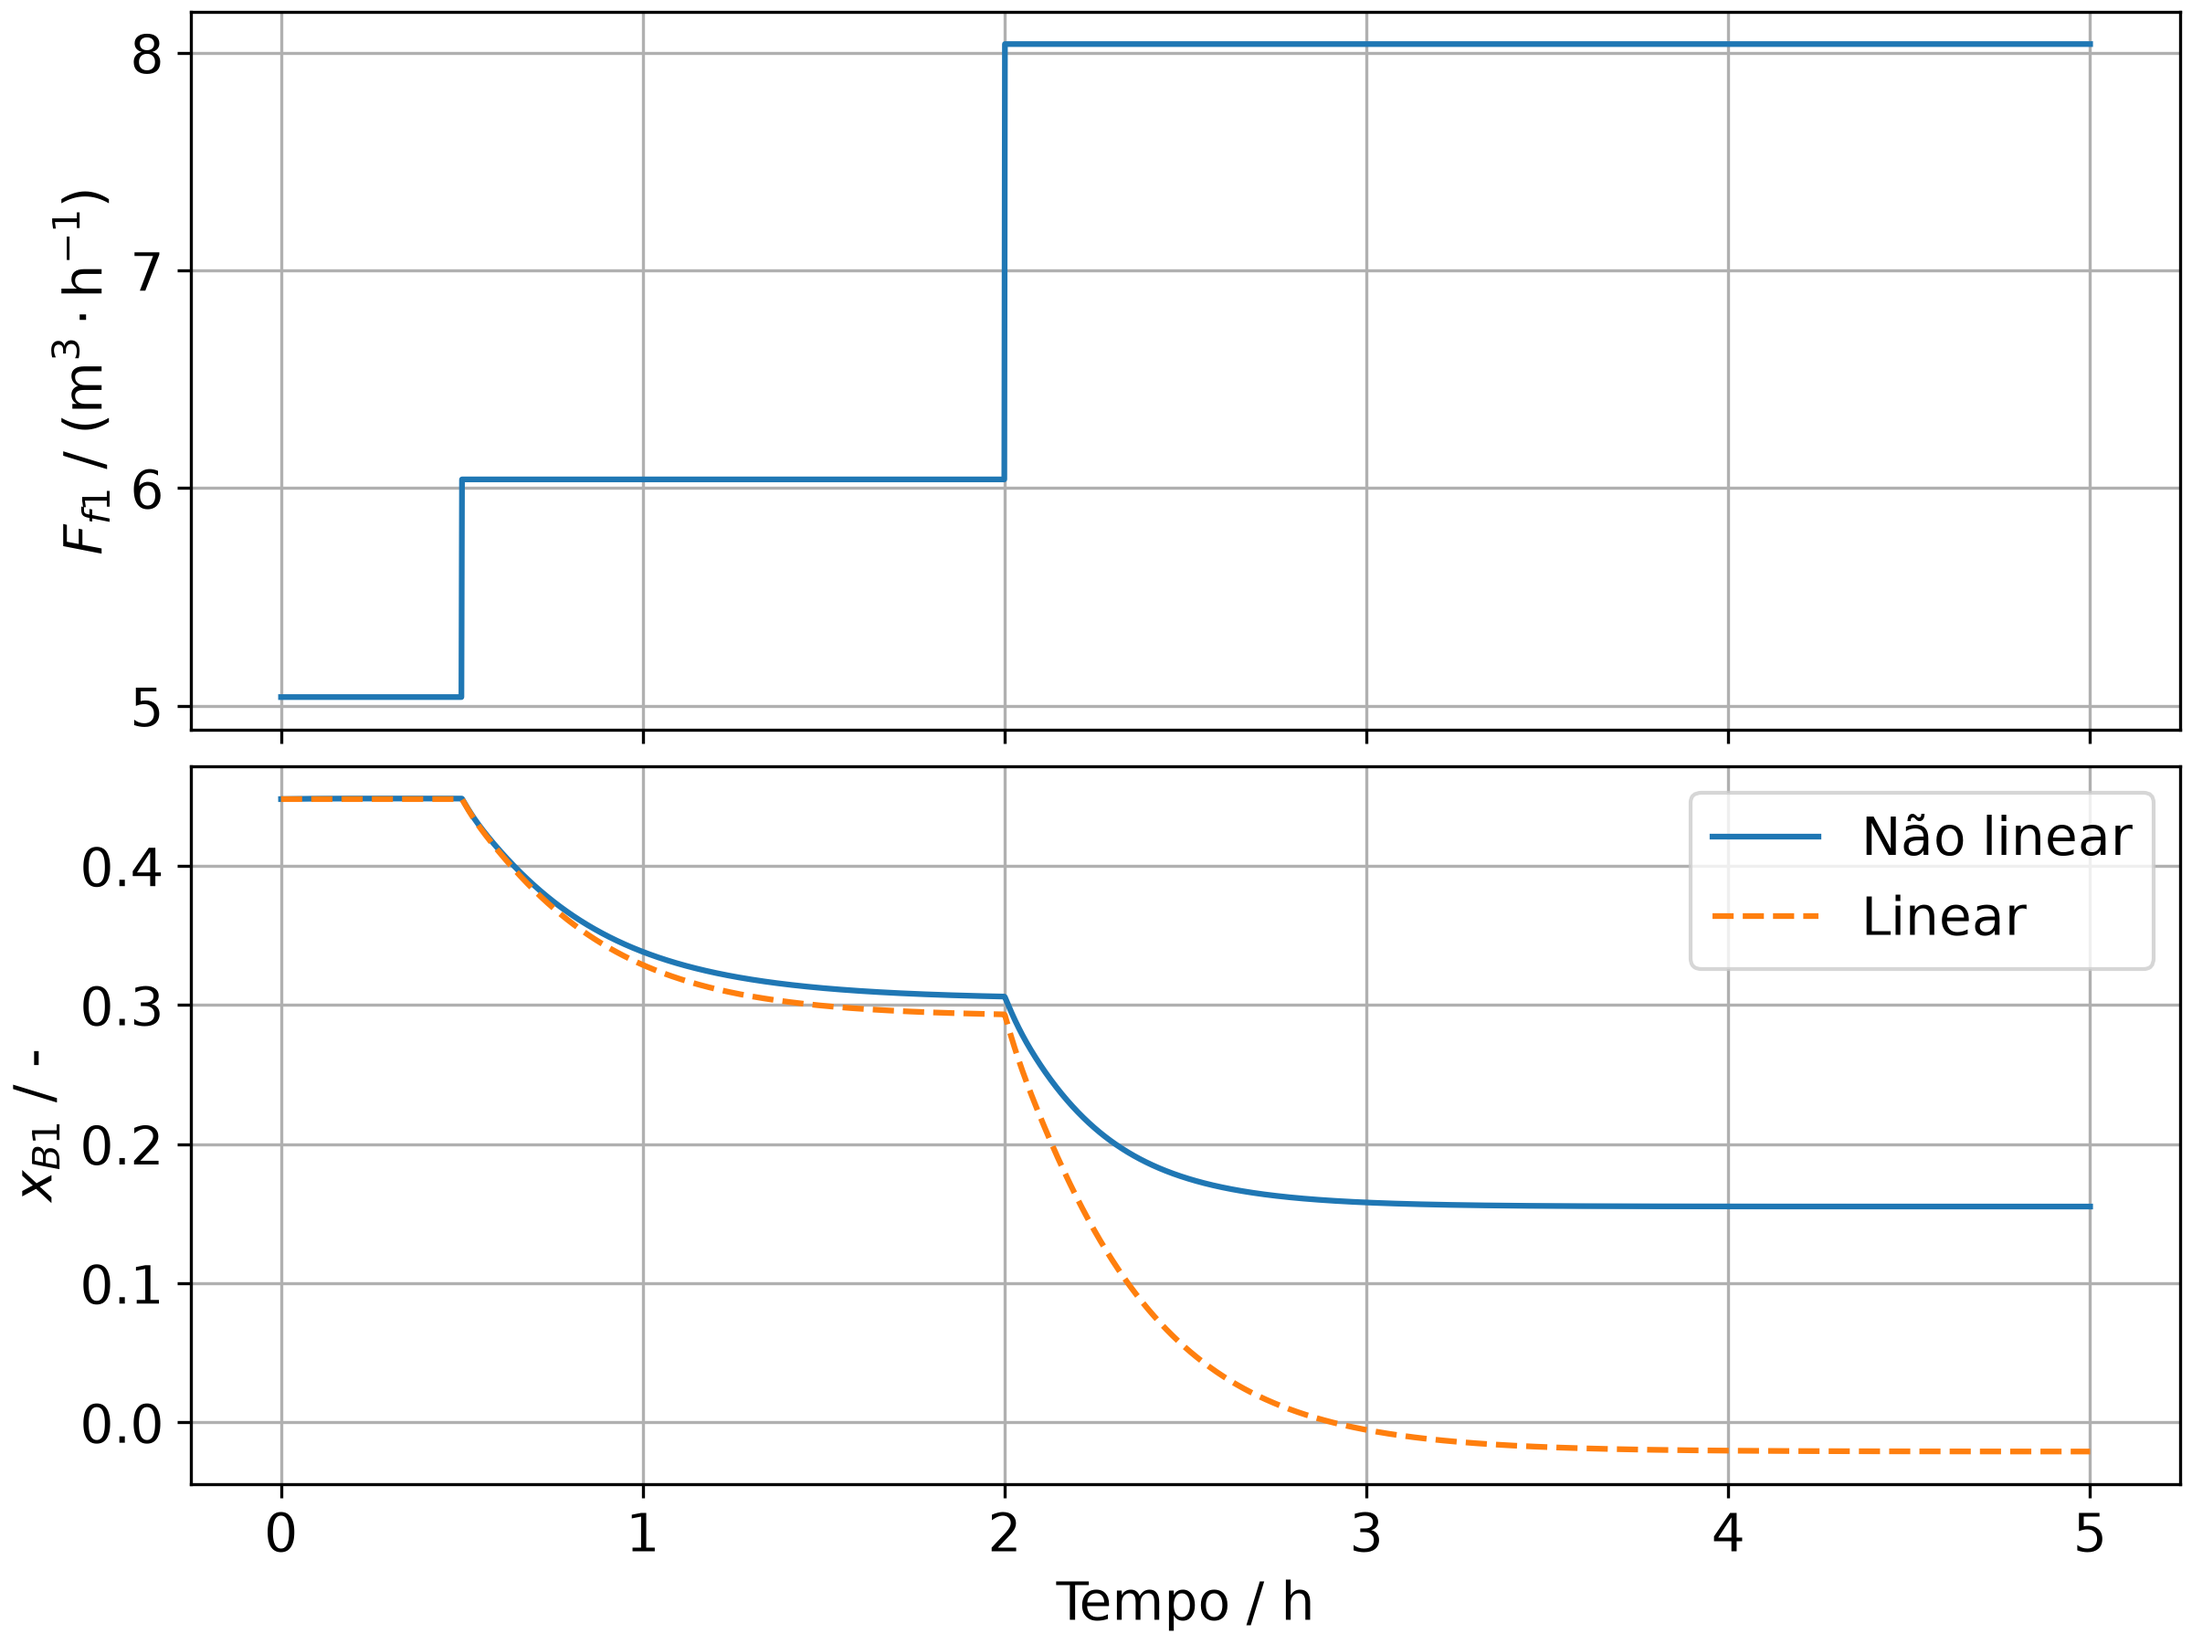
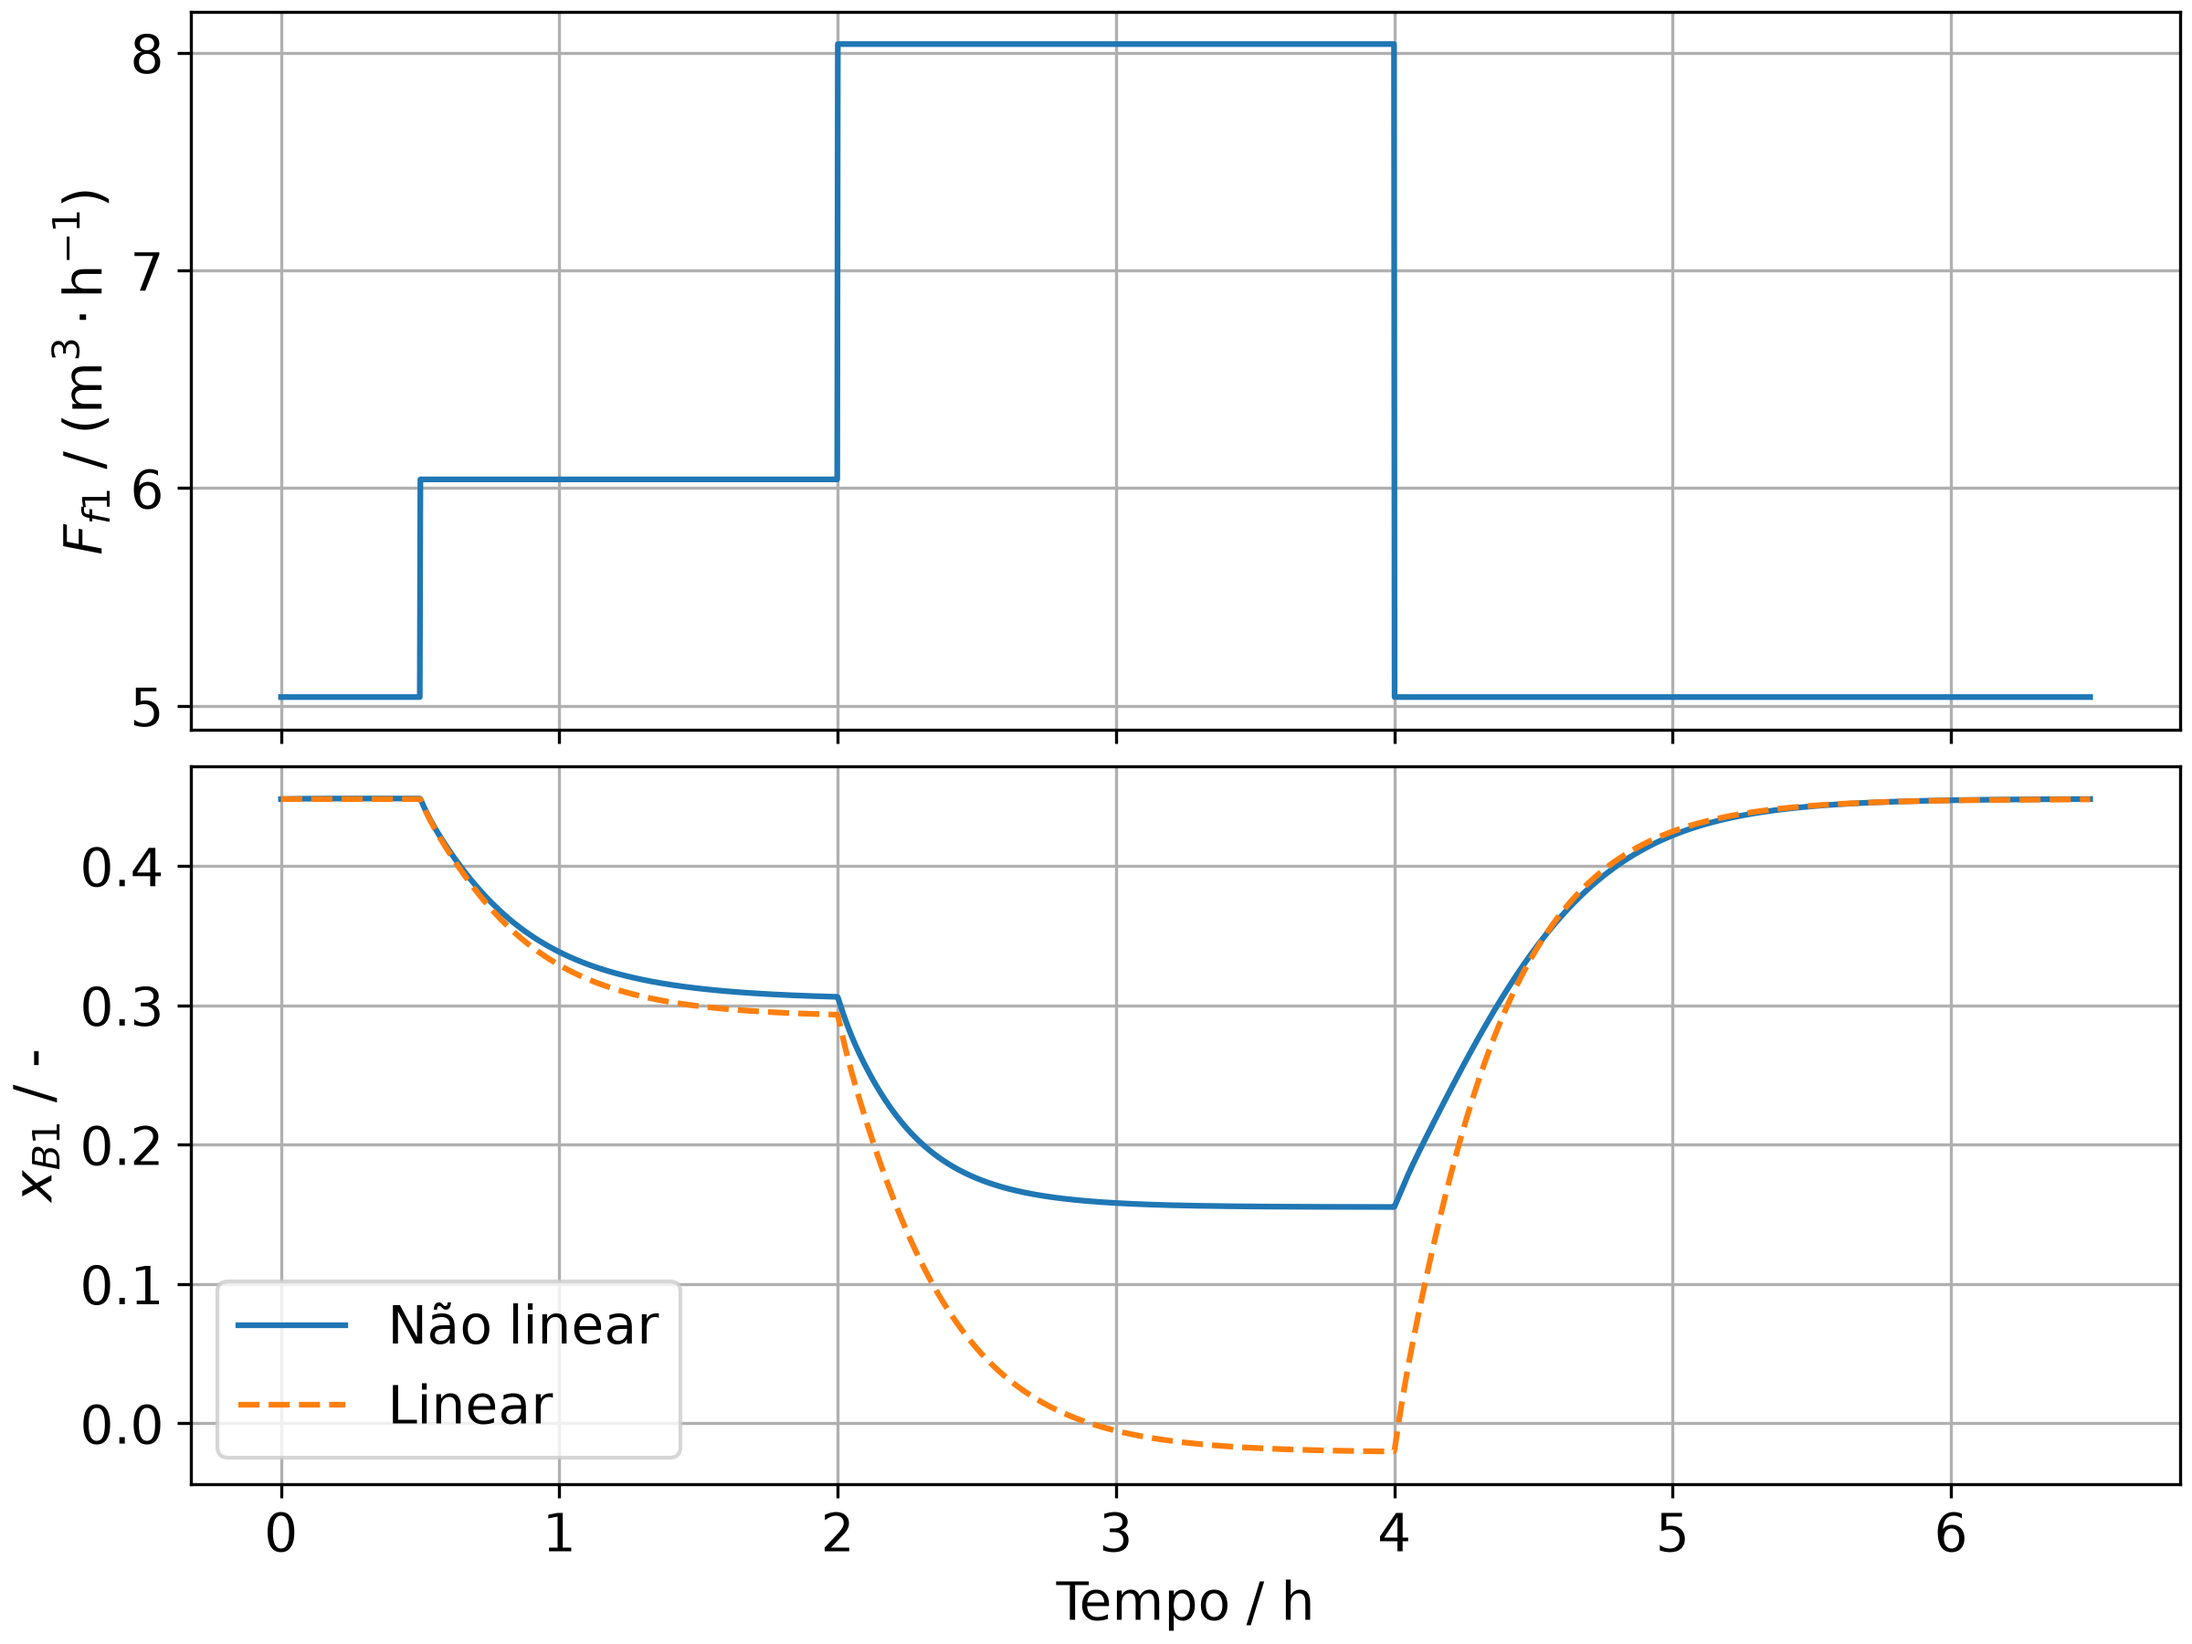
Update simulations to use pulse inputs

diff --git a/src/lib/utils.py b/src/lib/utils.py
@@ -32,12 +32,24 @@ def G_sp_to_ctrl(G_sym):
     return ctrl.TransferFunction(num, den)
 
 
-def step(
-    t, y0: float, step_time: float = 0.2, gain: float = 1.1, disturb: bool = False
-):
+gain = 1.5
+
+
+def step(t, y0: float, step_time: float = 0.2, disturb: bool = False):
     y1 = gain * y0
 
     if not disturb:
         return y0 if np.isscalar(t) else np.full_like(t, y0, dtype=float)
 
     return np.where(t < step_time, y0, y1)
+
+
+def pulse(
+    t, y0: float, step_time: float = 0.2, end_time: float = 2.5, disturb: bool = False
+):
+    y1 = gain * y0
+
+    if not disturb:
+        return y0 if np.isscalar(t) else np.full_like(t, y0, dtype=float)
+
+    return np.where((t >= step_time) & (t < end_time), y1, y0)

diff --git a/src/lib/inputs.py b/src/lib/inputs.py
@@ -1,17 +1,17 @@
 from .parameters import FR_0, Ff1_0, Ff2_0
-from .utils import step
+from .utils import pulse
 
 
 def Ff1_func(t, disturb=False):
     """Feed flow rate to reactor 1 [m³/h]"""
-    return step(t, Ff1_0, disturb=disturb, gain=1.5)
+    return pulse(t, Ff1_0, disturb=disturb)
 
 
 def Ff2_func(t, disturb=False):
     """Feed flow rate to reactor 2 [m³/h]"""
-    return step(t, Ff2_0, disturb=disturb, gain=1.5)
+    return pulse(t, Ff2_0, disturb=disturb)
 
 
 def FR_func(t, disturb=False):
     """Recycle flow rate [m³/h]"""
-    return step(t, FR_0, disturb=disturb, gain=1.5)
+    return pulse(t, FR_0, disturb=disturb)

diff --git a/LaTeX/slide/capítulos/3.análise-no-tempo.tex b/LaTeX/slide/capítulos/3.análise-no-tempo.tex
@@ -3,9 +3,9 @@
 \begin{frame}{Comportamento Dinâmico do Sistema}
   \begin{figure}
     \centering
-    \includegraphics[width=0.8\linewidth]{../../figures/nonlinear/step-FR-inputs.png}
-    \includegraphics[width=0.8\linewidth]{../../figures/nonlinear/step-FR-outputs.png}
-    \caption{Entradas e saídas do sistema não linear para um degrau em $F_R$.}
+    \includegraphics[width=0.8\linewidth]{../../figures/nonlinear/pulse-FR-inputs.png}
+    \includegraphics[width=0.8\linewidth]{../../figures/nonlinear/pulse-FR-outputs.png}
+    \caption{Entradas e saídas do sistema não linear para um pulso em $F_R$.}
   \end{figure}
 \end{frame}
 
